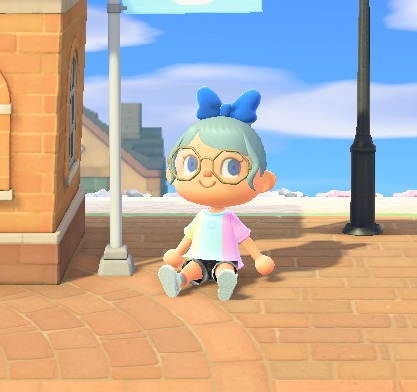
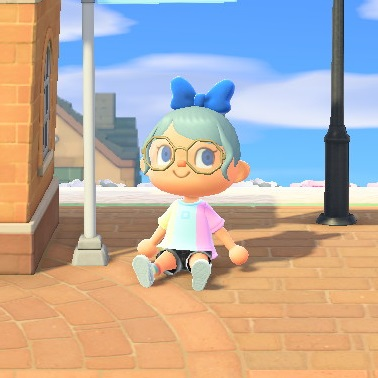
Added a 2nd image to fade into

diff --git a/src/components/Home.vue b/src/components/Home.vue
@@ -1,7 +1,10 @@
 <template>
   <div>
     <div class="hello row">
-      <img alt="Nix" src="../assets/nix-avatar.jpg" width=20% height=20%>
+      <div class="pic">
+        <img alt="Nix" src="../assets/nix-avatar.jpg">
+        <img alt="Nix" src="../assets/nix-avatar2.png" class="img-top">
+      </div>
       <h3>はじめまして！Christineです！<br>ヽ(・∀・)ﾉ</h3>
       <h5>I am a software developer and UX enthusiast from Quezon City, Philippines.</h5>
     </div>
@@ -86,5 +89,24 @@ a {
 }
 img {
   border-radius: 50%;
+  width: 320px;
+  height: 320px;
+}
+.pic {
+  position: relative;
+  display: inline-block;
+}
+.pic .img-top {
+  position: absolute;
+  top: 0;
+  bottom: 0;
+  left: 0;
+  right: 0;
+  opacity: 0;
+  transition: opacity 0.5s;
+}
+.pic:hover .img-top {
+  display: inline;
+  opacity: 1;
 }
 </style>
